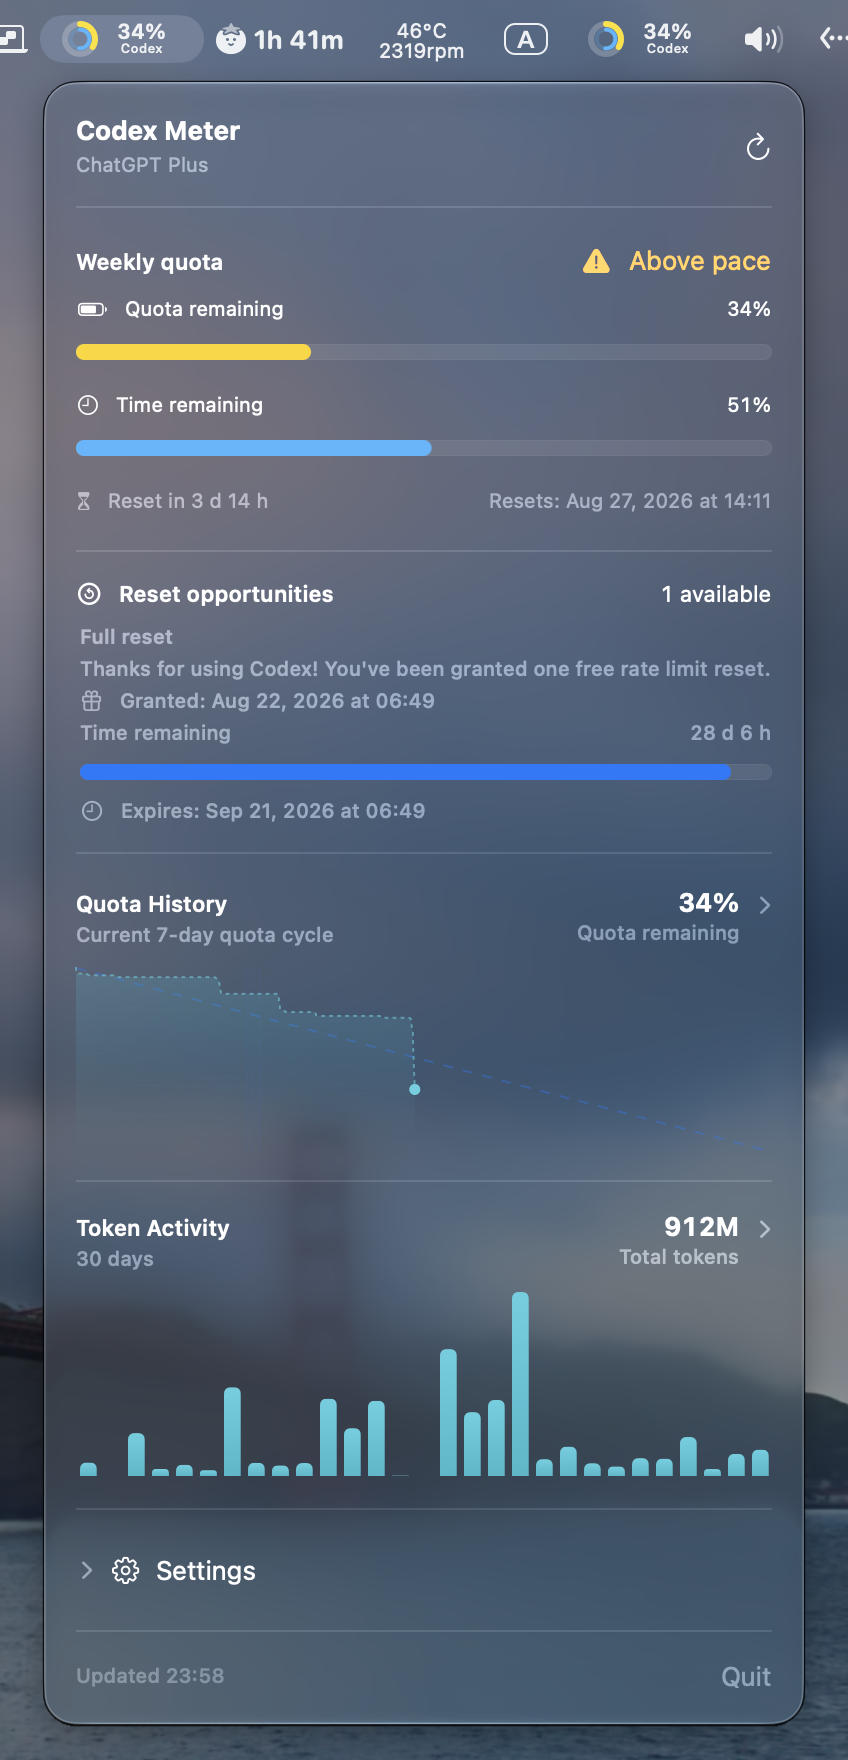
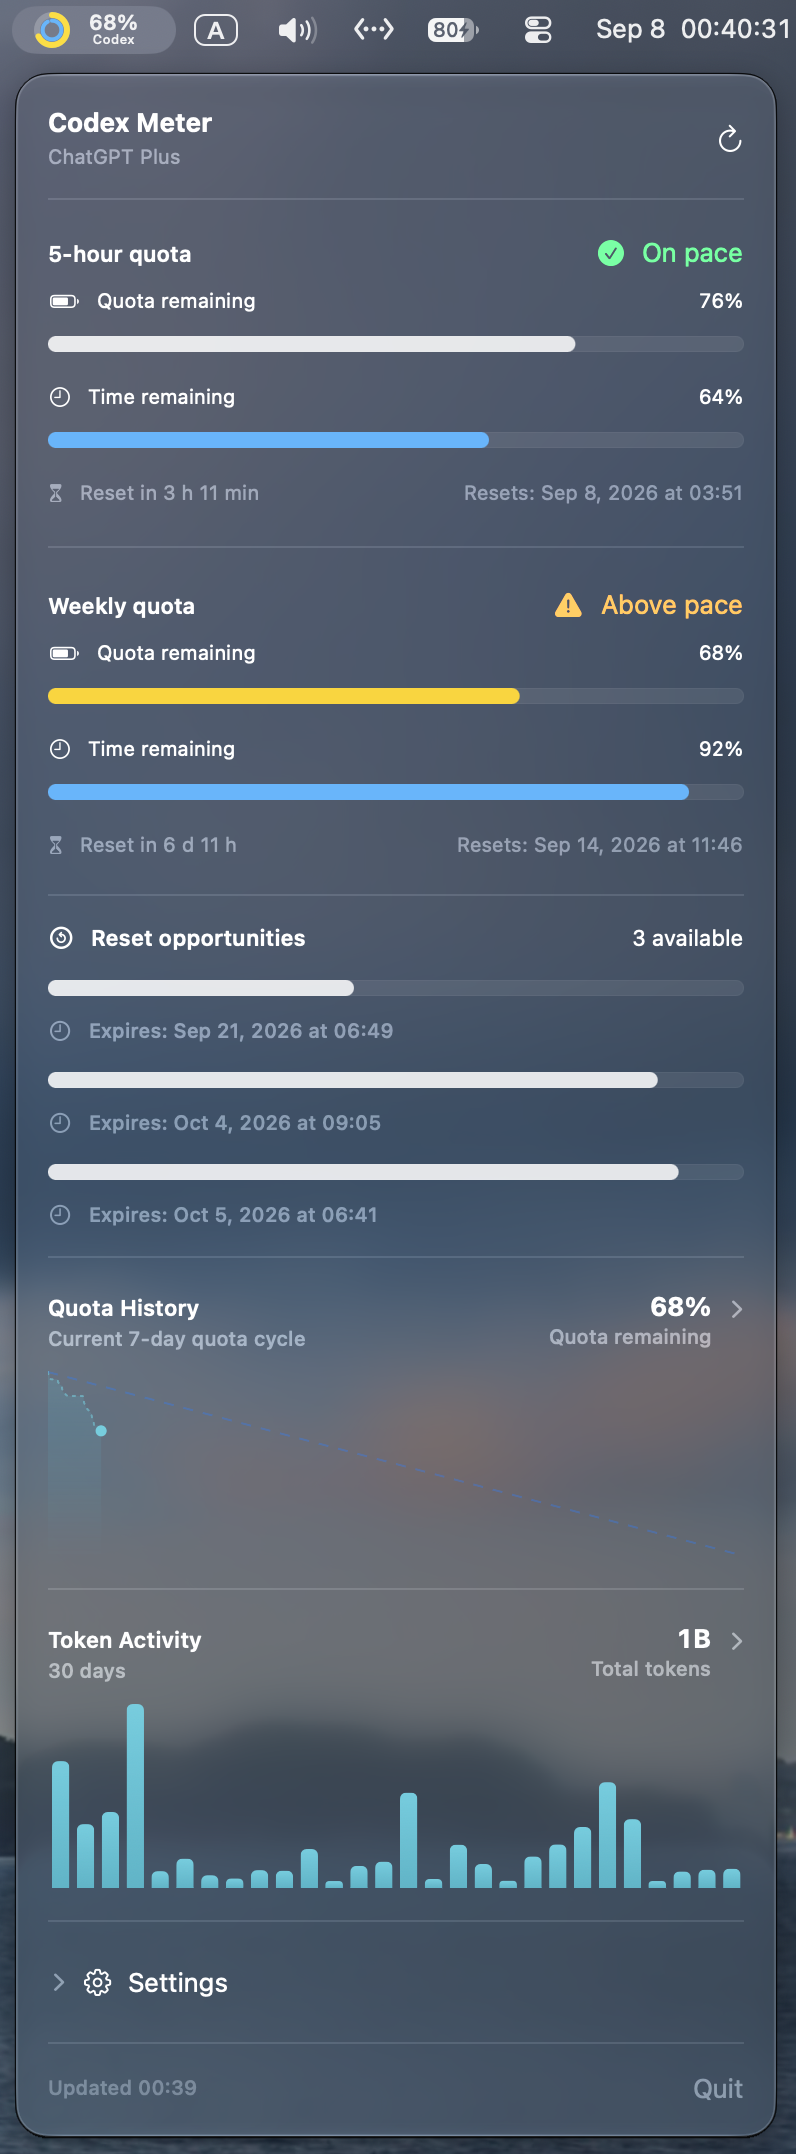
docs: refresh README screenshots

diff --git a/README.md b/README.md
@@ -13,8 +13,28 @@ visible at a glance.
 
 ## Preview
 
+### Menu Bar Popover
+
 <p align="center">
-  <img src="docs/images/codexmeter-menu-bar-popover.png" width="424" alt="CodexMeter menu-bar popover showing quota, reset opportunity, history, and token activity">
+  <img src="docs/images/codexmeter-menu-bar-popover.png" width="380" alt="CodexMeter menu-bar popover showing five-hour and weekly quota, reset opportunities, quota history, and token activity">
+</p>
+
+### Usage History
+
+<p align="center">
+  <img src="docs/images/codexmeter-usage-history.png" width="900" alt="CodexMeter Usage History window showing browsable quota history and token activity">
+</p>
+
+### Interactive Token Activity
+
+<p align="center">
+  <img src="docs/images/codexmeter-token-activity.png" width="900" alt="CodexMeter interactive Token Activity chart with range selection and hover details">
+</p>
+
+### Customizable Popover
+
+<p align="center">
+  <img src="docs/images/codexmeter-popover-customization.png" width="560" alt="CodexMeter popover customization window with quota source, visibility, ordering, and live preview controls">
 </p>
 
 ## Features
